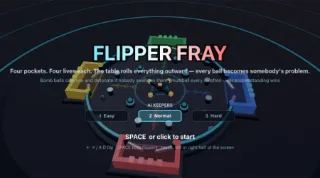
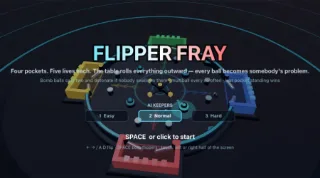
fix(docs): steepen the Flipper Fray dome so balls never crawl in the middle
The radial field was 30 px/s² everywhere. That is fine for a ball already
moving outward, but one that arrives at the centre with inward speed needs
2v/a to turn around — eight seconds at 120 px/s — so it appeared to stop dead
in the middle and refuse to roll out. A stall probe (speed < 45 px/s inside
r < 110 held for 0.75 s, logging what the ball touches) found eleven such
crawls in a two-minute match, every one of them touching nothing, which ruled
out geometry.

The dome is now steepest at the top: 170 px/s² at the centre falling linearly
to 71 at the rim, so the middle clears itself while the rim stays playable —
over half the time a ball is still under 200 px/s. The rim funnel scales with
it (16 → 80 px/s²), without which the stronger push simply pins a ball against
the wall harder. Lives go back to five to keep the match near two minutes.

Measured over 12 all-AI matches: approaches 631/622/593/606, drains
55/54/50/52, save rates within 0.3 points, ~108 s per match, no timeouts, no
stuck balls, two slow events per match and both just past a bumper.

diff --git a/docs/zh/examples/flipper-fray/index.html b/docs/zh/examples/flipper-fray/index.html
@@ -5,7 +5,7 @@
   <meta name="nape-prerendered" content="zh" />
   <meta name="viewport" content="width=device-width, initial-scale=1.0" />
   <title>Flipper Fray — 交互式 2D 物理演示 | nape-js</title>
-  <meta name="description" content="一场四人弹珠台混战：一张圆桌、四个球袋，每个球袋由一对挡板守护。台面是一个穹顶：一切都从中心向外滚，因此每颗球最终都会成为某个人的麻烦；弹碰器、弹射器和赛道立柱把弹珠抛来抛去，每一颗越过你挡板的球都要你付出一条命——四条命，坚持到最后的球袋获胜，三分钟到时则比剩余命数。你守住底部球袋，对抗三名 AI…" />
+  <meta name="description" content="一场四人弹珠台混战：一张圆桌、四个球袋，每个球袋由一对挡板守护。台面是一个穹顶：一切都从中心向外滚，因此每颗球最终都会成为某个人的麻烦；弹碰器、弹射器和赛道立柱把弹珠抛来抛去，每一颗越过你挡板的球都要你付出一条命——五条命，坚持到最后的球袋获胜，三分钟到时则比剩余命数。你守住底部球袋，对抗三名 AI…" />
   <meta name="robots" content="index, follow, max-snippet:-1, max-image-preview:large" />
   <meta name="theme-color" content="#0d1117" />
   <meta name="generator" content="nape-js build-site-pages" />
@@ -52,7 +52,7 @@
         "name": "Flipper Fray",
         "inLanguage": "zh",
         "image": "https://napejs.org/assets/posters/flipper-fray.webp",
-        "description": "一场四人弹珠台混战：一张圆桌、四个球袋，每个球袋由一对挡板守护。台面是一个穹顶：一切都从中心向外滚，因此每颗球最终都会成为某个人的麻烦；弹碰器、弹射器和赛道立柱把弹珠抛来抛去，每一颗越过你挡板的球都要你付出一条命——四条命，坚持到最后的球袋获胜，三分钟到时则比剩余命数。你守住底部球袋，对抗三名 AI 守门员；多球按时间表投放额外弹珠，每半分钟还会滚出一颗炸弹球：掉进袋里扣两条命，没人吞下它就会爆炸。← → / A D 拨动挡板，空格同时拨动两侧；触屏按住屏幕左半或右半。物理：挡板是用 setVelocityFromTarget…",
+        "description": "一场四人弹珠台混战：一张圆桌、四个球袋，每个球袋由一对挡板守护。台面是一个穹顶：一切都从中心向外滚，因此每颗球最终都会成为某个人的麻烦；弹碰器、弹射器和赛道立柱把弹珠抛来抛去，每一颗越过你挡板的球都要你付出一条命——五条命，坚持到最后的球袋获胜，三分钟到时则比剩余命数。你守住底部球袋，对抗三名 AI 守门员；多球按时间表投放额外弹珠，每半分钟还会滚出一颗炸弹球：掉进袋里扣两条命，没人吞下它就会爆炸。← → / A D 拨动挡板，空格同时拨动两侧；触屏按住屏幕左半或右半。物理：挡板是用 setVelocityFromTarget…",
         "url": "https://napejs.org/zh/examples/flipper-fray/",
         "gamePlatform": "Web browser",
         "applicationCategory": "Game",
@@ -83,7 +83,7 @@
   <meta property="og:site_name" content="nape-js" />
   <meta property="og:type" content="website" />
   <meta property="og:title" content="Flipper Fray — 交互式 2D 物理演示 | nape-js" />
-  <meta property="og:description" content="一场四人弹珠台混战：一张圆桌、四个球袋，每个球袋由一对挡板守护。台面是一个穹顶：一切都从中心向外滚，因此每颗球最终都会成为某个人的麻烦；弹碰器、弹射器和赛道立柱把弹珠抛来抛去，每一颗越过你挡板的球都要你付出一条命——四条命，坚持到最后的球袋获胜，三分钟到时则比剩余命数。你守住底部球袋，对抗三名 AI…" />
+  <meta property="og:description" content="一场四人弹珠台混战：一张圆桌、四个球袋，每个球袋由一对挡板守护。台面是一个穹顶：一切都从中心向外滚，因此每颗球最终都会成为某个人的麻烦；弹碰器、弹射器和赛道立柱把弹珠抛来抛去，每一颗越过你挡板的球都要你付出一条命——五条命，坚持到最后的球袋获胜，三分钟到时则比剩余命数。你守住底部球袋，对抗三名 AI…" />
   <meta property="og:url" content="https://napejs.org/zh/examples/flipper-fray/" />
   <meta property="og:image" content="https://napejs.org/assets/posters/flipper-fray.webp" />
   <meta property="og:image:width" content="900" />
@@ -93,7 +93,7 @@
   <meta name="twitter:card" content="summary_large_image" />
   <meta name="twitter:creator" content="@KSomoracz" />
   <meta name="twitter:title" content="Flipper Fray — 交互式 2D 物理演示 | nape-js" />
-  <meta name="twitter:description" content="一场四人弹珠台混战：一张圆桌、四个球袋，每个球袋由一对挡板守护。台面是一个穹顶：一切都从中心向外滚，因此每颗球最终都会成为某个人的麻烦；弹碰器、弹射器和赛道立柱把弹珠抛来抛去，每一颗越过你挡板的球都要你付出一条命——四条命，坚持到最后的球袋获胜，三分钟到时则比剩余命数。你守住底部球袋，对抗三名 AI…" />
+  <meta name="twitter:description" content="一场四人弹珠台混战：一张圆桌、四个球袋，每个球袋由一对挡板守护。台面是一个穹顶：一切都从中心向外滚，因此每颗球最终都会成为某个人的麻烦；弹碰器、弹射器和赛道立柱把弹珠抛来抛去，每一颗越过你挡板的球都要你付出一条命——五条命，坚持到最后的球袋获胜，三分钟到时则比剩余命数。你守住底部球袋，对抗三名 AI…" />
   <meta name="twitter:image" content="https://napejs.org/assets/posters/flipper-fray.webp" />
   <script async src="https://www.googletagmanager.com/gtag/js?id=G-TF84DLZ4X8"></script>
   <script>
@@ -172,7 +172,7 @@
         <span aria-current="page" data-i18n="demo.flipper-fray.label">Flipper Fray</span>
       </nav>
       <h1 class="demo-page-title"><span class="tier-badge tier-badge-showpiece" data-i18n="games.tier.showpiece">完整游戏</span><span data-i18n="demo.flipper-fray.label">Flipper Fray</span></h1>
-      <p class="demo-page-desc" data-i18n-html="demo.flipper-fray.desc">一场<b>四人弹珠台混战</b>：一张圆桌、四个球袋，每个球袋由一对挡板守护。台面是一个<b>穹顶</b>：一切都从中心向外滚，因此每颗球最终都会成为某个人的麻烦；弹碰器、弹射器和赛道立柱把弹珠抛来抛去，每一颗越过你挡板的球都要你付出一条命——<b>四条命</b>，坚持到最后的球袋获胜，三分钟到时则比剩余命数。你守住底部球袋，对抗<b>三名 AI 守门员</b>；<b>多球</b>按时间表投放额外弹珠，每半分钟还会滚出一颗<b>炸弹球</b>：掉进袋里扣两条命，没人吞下它就会爆炸。<b>← →</b> / <b>A D</b> 拨动挡板，<b>空格</b>同时拨动两侧；触屏按住屏幕左半或右半。物理：挡板是用 <code>setVelocityFromTarget</code> 驱动的<b>运动学刚体</b>，因此一击会把真实的角速度传给弹珠；弹珠是带<b>子弹标记</b>的圆形，不会穿过纤薄的环形墙；弹碰器和弹射器的冲击以及进球判定都经由 <code>InteractionListener</code> 送达。<b>3D</b> 模式是一座霓虹竞技场：镀铬弹珠、发光球袋和赛道灯光，从你自己的球袋后方观看。</p>
+      <p class="demo-page-desc" data-i18n-html="demo.flipper-fray.desc">一场<b>四人弹珠台混战</b>：一张圆桌、四个球袋，每个球袋由一对挡板守护。台面是一个<b>穹顶</b>：一切都从中心向外滚，因此每颗球最终都会成为某个人的麻烦；弹碰器、弹射器和赛道立柱把弹珠抛来抛去，每一颗越过你挡板的球都要你付出一条命——<b>五条命</b>，坚持到最后的球袋获胜，三分钟到时则比剩余命数。你守住底部球袋，对抗<b>三名 AI 守门员</b>；<b>多球</b>按时间表投放额外弹珠，每半分钟还会滚出一颗<b>炸弹球</b>：掉进袋里扣两条命，没人吞下它就会爆炸。<b>← →</b> / <b>A D</b> 拨动挡板，<b>空格</b>同时拨动两侧；触屏按住屏幕左半或右半。物理：挡板是用 <code>setVelocityFromTarget</code> 驱动的<b>运动学刚体</b>，因此一击会把真实的角速度传给弹珠；弹珠是带<b>子弹标记</b>的圆形，不会穿过纤薄的环形墙；弹碰器和弹射器的冲击以及进球判定都经由 <code>InteractionListener</code> 送达。<b>3D</b> 模式是一座霓虹竞技场：镀铬弹珠、发光球袋和赛道灯光，从你自己的球袋后方观看。</p>
 
       <div class="canvas-wrap" id="canvasWrap">
         <canvas id="demoCanvas" width="900" height="500"></canvas>

diff --git a/docs/demos/flipper-fray.js b/docs/demos/flipper-fray.js
@@ -65,13 +65,16 @@ const FLIP_HOLD_AI = 7;         // frames an AI holds a flipper up
 const BALL_R = 5.5;
 const BOMB_R = 7.5;
 const MAX_SPEED = 740;
-// The table is a shallow dome: the ball is pushed straight out from the
-// centre, the same everywhere, which is fair now that all four mouths are the
-// same distance away. Near the rim a gentle sideways nudge steers it toward
-// the nearest mouth, so a ball can never park itself against the wall between
-// two pockets — the one place a constant outward push would leave it.
-const OUT_ACC = 30;             // px/s² outward from the centre
-const FUNNEL_ACC = 16;          // px/s² sideways at the rim, toward the nearest mouth
+// The table is a dome, steepest at the top: the ball is pushed straight out
+// from the centre, hardest in the middle and easing off toward the rim. A
+// weak constant field left balls crawling for seconds around the centre
+// whenever they arrived with inward speed — the turnaround alone took eight
+// of them — while a strong constant one fired everything at the flippers.
+// Near the rim a sideways nudge steers the ball toward the nearest mouth, so
+// it can never park itself against the wall between two pockets.
+const OUT_ACC = 170;            // px/s² outward at the centre
+const OUT_FALLOFF = 0.58;       // fraction of that lost by the rim
+const FUNNEL_ACC = 80;          // px/s² sideways at the rim, toward the nearest mouth
 const DAMP = 0.26;              // linear damping, 1/s
 const BUMP_KICK = 185;
 const SLING_KICK = 155;
@@ -81,7 +84,7 @@ const CROSS_ARM = 42;
 const CROSS_SPIN = 0.85;        // rad/s
 
 // ── Match ────────────────────────────────────────────────────────────────
-const START_LIVES = 4;
+const START_LIVES = 5;
 const MATCH_FRAMES = 180 * 60;
 const RESPAWN_DELAY = 70;
 const BOMB_FUSE = 9 * 60;
@@ -465,9 +468,11 @@ function tickBalls() {
     const gx = p.x - CX, gy = p.y - CY;
     const gl = Math.hypot(gx, gy) || 1;
     const ux = gx / gl, uy = gy / gl;
-    vx += ux * OUT_ACC * DT;
-    vy += uy * OUT_ACC * DT;
-    const k = Math.min(1, (gl / R_WALL) ** 2);
+    const t = Math.min(1, gl / R_WALL);
+    const acc = OUT_ACC * (1 - OUT_FALLOFF * t);
+    vx += ux * acc * DT;
+    vy += uy * acc * DT;
+    const k = Math.min(1, t * t);
     if (k > 0.05) {
       const ang = Math.atan2(gy, gx);
       let best = 0;
@@ -1139,7 +1144,7 @@ function drawTitle(ctx) {
   ctx.fillText("FLIPPER FRAY", CX, 150);
   ctx.font = `bold 16px ${HUD_FONT}`;
   ctx.fillStyle = "#c9d6e2";
-  ctx.fillText("Four pockets. Four lives each. The table rolls everything outward — every ball becomes somebody's problem.", CX, 200);
+  ctx.fillText("Four pockets. Five lives each. The table rolls everything outward — every ball becomes somebody's problem.", CX, 200);
   ctx.fillStyle = "#8fb8c8";
   ctx.font = `13px ${HUD_FONT}`;
   ctx.fillText("Bomb balls cost two and detonate if nobody swallows them · multiball every so often · last pocket standing wins", CX, 226);
@@ -1887,7 +1892,7 @@ export default {
   label: "Flipper Fray",
   tags: ["Gameplay", "Pinball", "AI", "Kinematic", "CCD", "Listeners", "Mobile"],
   desc:
-    "A <b>four-player pinball brawl</b>: one round table, four pockets, a pair of flippers guarding each. The playfield is a <b>dome</b>: everything rolls outward from the centre, so every ball becomes somebody's problem; bumpers, slingshots and lane posts throw the balls around, and every ball that gets past your flippers costs you a life — <b>four lives</b>, last pocket standing wins, or the most lives when three minutes run out. You hold the bottom pocket against <b>three AI keepers</b>; <b>multiball</b> drops extra balls on a schedule and a <b>bomb ball</b> rolls out every half minute — two lives if it drains, a blast if nobody swallows it. <b>← →</b> / <b>A D</b> flip, <b>SPACE</b> both; on touch, hold the left or right half of the screen. Physics: the flippers are <b>kinematic bodies</b> driven with <code>setVelocityFromTarget</code>, so a slap carries real angular speed into the ball; balls are <b>bullet-flagged</b> circles, so nothing tunnels through the thin ring walls; bumper and slingshot kicks and goal credit come through <code>InteractionListener</code>s. In <b>3D</b> a neon arena with chrome balls, glowing pockets and lane lights, seen from behind your own pocket.",
+    "A <b>four-player pinball brawl</b>: one round table, four pockets, a pair of flippers guarding each. The playfield is a <b>dome</b>: everything rolls outward from the centre, so every ball becomes somebody's problem; bumpers, slingshots and lane posts throw the balls around, and every ball that gets past your flippers costs you a life — <b>five lives</b>, last pocket standing wins, or the most lives when three minutes run out. You hold the bottom pocket against <b>three AI keepers</b>; <b>multiball</b> drops extra balls on a schedule and a <b>bomb ball</b> rolls out every half minute — two lives if it drains, a blast if nobody swallows it. <b>← →</b> / <b>A D</b> flip, <b>SPACE</b> both; on touch, hold the left or right half of the screen. Physics: the flippers are <b>kinematic bodies</b> driven with <code>setVelocityFromTarget</code>, so a slap carries real angular speed into the ball; balls are <b>bullet-flagged</b> circles, so nothing tunnels through the thin ring walls; bumper and slingshot kicks and goal credit come through <code>InteractionListener</code>s. In <b>3D</b> a neon arena with chrome balls, glowing pockets and lane lights, seen from behind your own pocket.",
   walls: false,
   workerCompatible: false,
   camera: null,

diff --git a/docs/fr/games/index.html b/docs/fr/games/index.html
@@ -274,7 +274,7 @@
           </a>
           <div class="game-card-body">
             <h3><span class="tier-badge tier-badge-showpiece" data-i18n="games.tier.showpiece">Jeu complet</span><a href="../../fr/examples/flipper-fray/?mode=3d&outline=0" data-i18n="demo.flipper-fray.label">Flipper Fray</a></h3>
-            <p class="game-card-desc" data-i18n-html="demo.flipper-fray.desc">Une <b>bagarre de flipper à quatre joueurs</b> : une table ronde, quatre poches, chacune gardée par une paire de flippers. Le plateau est un <b>dôme</b> : tout roule du centre vers l'extérieur, donc chaque bille finit par être le problème de quelqu'un ; bumpers, slingshots et plots de couloir projettent les billes partout, et chaque bille qui passe vos flippers vous coûte une vie — <b>quatre vies</b>, la dernière poche debout gagne, ou celle qui a le plus de vies au bout de trois minutes. Vous tenez la poche du bas contre <b>trois gardiens IA</b> ; le <b>multibille</b> lâche des billes supplémentaires selon un calendrier et toutes les trente secondes une <b>bille-bombe</b> sort : deux vies si elle tombe, une explosion si personne ne l'avale. <b>← →</b> / <b>A D</b> pour les flippers, <b>ESPACE</b> pour les deux ; en tactile, maintenez la moitié gauche ou droite de l'écran. Physique : les flippers sont des <b>corps cinématiques</b> pilotés par <code>setVelocityFromTarget</code>, si bien qu'un coup transmet une vraie vitesse angulaire à la bille ; les billes sont des cercles <b>marqués bullet</b>, donc rien ne traverse les fines parois de l'anneau ; les impulsions des bumpers et des slingshots et l'attribution des buts passent par des <code>InteractionListener</code>. En <b>3D</b>, une arène néon avec des billes chromées, des poches lumineuses et des lignes de couloir, vue de derrière votre propre poche.</p>
+            <p class="game-card-desc" data-i18n-html="demo.flipper-fray.desc">Une <b>bagarre de flipper à quatre joueurs</b> : une table ronde, quatre poches, chacune gardée par une paire de flippers. Le plateau est un <b>dôme</b> : tout roule du centre vers l'extérieur, donc chaque bille finit par être le problème de quelqu'un ; bumpers, slingshots et plots de couloir projettent les billes partout, et chaque bille qui passe vos flippers vous coûte une vie — <b>cinq vies</b>, la dernière poche debout gagne, ou celle qui a le plus de vies au bout de trois minutes. Vous tenez la poche du bas contre <b>trois gardiens IA</b> ; le <b>multibille</b> lâche des billes supplémentaires selon un calendrier et toutes les trente secondes une <b>bille-bombe</b> sort : deux vies si elle tombe, une explosion si personne ne l'avale. <b>← →</b> / <b>A D</b> pour les flippers, <b>ESPACE</b> pour les deux ; en tactile, maintenez la moitié gauche ou droite de l'écran. Physique : les flippers sont des <b>corps cinématiques</b> pilotés par <code>setVelocityFromTarget</code>, si bien qu'un coup transmet une vraie vitesse angulaire à la bille ; les billes sont des cercles <b>marqués bullet</b>, donc rien ne traverse les fines parois de l'anneau ; les impulsions des bumpers et des slingshots et l'attribution des buts passent par des <code>InteractionListener</code>. En <b>3D</b>, une arène néon avec des billes chromées, des poches lumineuses et des lignes de couloir, vue de derrière votre propre poche.</p>
             <div class="game-card-tags"><span class="example-tag" data-i18n="tag.Gameplay">Gameplay</span><span class="example-tag" data-i18n="tag.Pinball">Pinball</span><span class="example-tag" data-i18n="tag.AI">IA</span><span class="example-tag" data-i18n="tag.Kinematic">Kinematic</span><span class="example-tag" data-i18n="tag.CCD">CCD</span><span class="example-tag" data-i18n="tag.Listeners">Listeners</span><span class="example-tag" data-i18n="tag.Mobile">Mobile</span></div>
           </div>
         </article>

diff --git a/docs/fr/index.html b/docs/fr/index.html
@@ -419,7 +419,7 @@
           </a>
           <div class="game-card-body">
             <h3><span class="tier-badge tier-badge-showpiece" data-i18n="games.tier.showpiece">Jeu complet</span><a href="../examples/flipper-fray/?mode=3d&outline=0" data-i18n="demo.flipper-fray.label">Flipper Fray</a></h3>
-            <p class="game-card-desc" data-i18n-html="demo.flipper-fray.desc">Une <b>bagarre de flipper à quatre joueurs</b> : une table ronde, quatre poches, chacune gardée par une paire de flippers. Le plateau est un <b>dôme</b> : tout roule du centre vers l'extérieur, donc chaque bille finit par être le problème de quelqu'un ; bumpers, slingshots et plots de couloir projettent les billes partout, et chaque bille qui passe vos flippers vous coûte une vie — <b>quatre vies</b>, la dernière poche debout gagne, ou celle qui a le plus de vies au bout de trois minutes. Vous tenez la poche du bas contre <b>trois gardiens IA</b> ; le <b>multibille</b> lâche des billes supplémentaires selon un calendrier et toutes les trente secondes une <b>bille-bombe</b> sort : deux vies si elle tombe, une explosion si personne ne l'avale. <b>← →</b> / <b>A D</b> pour les flippers, <b>ESPACE</b> pour les deux ; en tactile, maintenez la moitié gauche ou droite de l'écran. Physique : les flippers sont des <b>corps cinématiques</b> pilotés par <code>setVelocityFromTarget</code>, si bien qu'un coup transmet une vraie vitesse angulaire à la bille ; les billes sont des cercles <b>marqués bullet</b>, donc rien ne traverse les fines parois de l'anneau ; les impulsions des bumpers et des slingshots et l'attribution des buts passent par des <code>InteractionListener</code>. En <b>3D</b>, une arène néon avec des billes chromées, des poches lumineuses et des lignes de couloir, vue de derrière votre propre poche.</p>
+            <p class="game-card-desc" data-i18n-html="demo.flipper-fray.desc">Une <b>bagarre de flipper à quatre joueurs</b> : une table ronde, quatre poches, chacune gardée par une paire de flippers. Le plateau est un <b>dôme</b> : tout roule du centre vers l'extérieur, donc chaque bille finit par être le problème de quelqu'un ; bumpers, slingshots et plots de couloir projettent les billes partout, et chaque bille qui passe vos flippers vous coûte une vie — <b>cinq vies</b>, la dernière poche debout gagne, ou celle qui a le plus de vies au bout de trois minutes. Vous tenez la poche du bas contre <b>trois gardiens IA</b> ; le <b>multibille</b> lâche des billes supplémentaires selon un calendrier et toutes les trente secondes une <b>bille-bombe</b> sort : deux vies si elle tombe, une explosion si personne ne l'avale. <b>← →</b> / <b>A D</b> pour les flippers, <b>ESPACE</b> pour les deux ; en tactile, maintenez la moitié gauche ou droite de l'écran. Physique : les flippers sont des <b>corps cinématiques</b> pilotés par <code>setVelocityFromTarget</code>, si bien qu'un coup transmet une vraie vitesse angulaire à la bille ; les billes sont des cercles <b>marqués bullet</b>, donc rien ne traverse les fines parois de l'anneau ; les impulsions des bumpers et des slingshots et l'attribution des buts passent par des <code>InteractionListener</code>. En <b>3D</b>, une arène néon avec des billes chromées, des poches lumineuses et des lignes de couloir, vue de derrière votre propre poche.</p>
             <div class="game-card-tags"><span class="example-tag" data-i18n="tag.Gameplay">Gameplay</span><span class="example-tag" data-i18n="tag.Pinball">Pinball</span><span class="example-tag" data-i18n="tag.AI">IA</span><span class="example-tag" data-i18n="tag.Kinematic">Kinematic</span><span class="example-tag" data-i18n="tag.CCD">CCD</span><span class="example-tag" data-i18n="tag.Listeners">Listeners</span><span class="example-tag" data-i18n="tag.Mobile">Mobile</span></div>
           </div>
         </article>

diff --git a/docs/es/games/index.html b/docs/es/games/index.html
@@ -274,7 +274,7 @@
           </a>
           <div class="game-card-body">
             <h3><span class="tier-badge tier-badge-showpiece" data-i18n="games.tier.showpiece">Juego completo</span><a href="../../es/examples/flipper-fray/?mode=3d&outline=0" data-i18n="demo.flipper-fray.label">Flipper Fray</a></h3>
-            <p class="game-card-desc" data-i18n-html="demo.flipper-fray.desc">Una <b>pelea de pinball para cuatro jugadores</b>: una mesa redonda, cuatro bolsillos y un par de flippers guardando cada uno. El campo es una <b>cúpula</b>: todo rueda hacia fuera desde el centro, así que cada bola acaba siendo problema de alguien; bumpers, slingshots y postes de carril lanzan las bolas de un lado a otro, y cada bola que pasa tus flippers te cuesta una vida — <b>cuatro vidas</b>, gana el último bolsillo en pie, o el que más vidas tenga cuando se acaben los tres minutos. Defiendes el bolsillo inferior contra <b>tres porteros IA</b>; el <b>multibola</b> suelta bolas extra según un calendario y cada medio minuto sale una <b>bola bomba</b>: dos vidas si entra, una explosión si nadie se la traga. <b>← →</b> / <b>A D</b> para los flippers, <b>ESPACIO</b> ambos; en táctil, mantén pulsada la mitad izquierda o derecha de la pantalla. Física: los flippers son <b>cuerpos cinemáticos</b> movidos con <code>setVelocityFromTarget</code>, así que un golpe transmite velocidad angular real a la bola; las bolas son círculos con <b>marca bullet</b>, así que nada atraviesa las finas paredes del anillo; los empujones de bumpers y slingshots y la anotación de goles llegan por <code>InteractionListener</code>. En <b>3D</b>, una arena de neón con bolas cromadas, bolsillos luminosos y luces de carril, vista desde detrás de tu propio bolsillo.</p>
+            <p class="game-card-desc" data-i18n-html="demo.flipper-fray.desc">Una <b>pelea de pinball para cuatro jugadores</b>: una mesa redonda, cuatro bolsillos y un par de flippers guardando cada uno. El campo es una <b>cúpula</b>: todo rueda hacia fuera desde el centro, así que cada bola acaba siendo problema de alguien; bumpers, slingshots y postes de carril lanzan las bolas de un lado a otro, y cada bola que pasa tus flippers te cuesta una vida — <b>cinco vidas</b>, gana el último bolsillo en pie, o el que más vidas tenga cuando se acaben los tres minutos. Defiendes el bolsillo inferior contra <b>tres porteros IA</b>; el <b>multibola</b> suelta bolas extra según un calendario y cada medio minuto sale una <b>bola bomba</b>: dos vidas si entra, una explosión si nadie se la traga. <b>← →</b> / <b>A D</b> para los flippers, <b>ESPACIO</b> ambos; en táctil, mantén pulsada la mitad izquierda o derecha de la pantalla. Física: los flippers son <b>cuerpos cinemáticos</b> movidos con <code>setVelocityFromTarget</code>, así que un golpe transmite velocidad angular real a la bola; las bolas son círculos con <b>marca bullet</b>, así que nada atraviesa las finas paredes del anillo; los empujones de bumpers y slingshots y la anotación de goles llegan por <code>InteractionListener</code>. En <b>3D</b>, una arena de neón con bolas cromadas, bolsillos luminosos y luces de carril, vista desde detrás de tu propio bolsillo.</p>
             <div class="game-card-tags"><span class="example-tag" data-i18n="tag.Gameplay">Jugabilidad</span><span class="example-tag" data-i18n="tag.Pinball">Pinball</span><span class="example-tag" data-i18n="tag.AI">IA</span><span class="example-tag" data-i18n="tag.Kinematic">Kinematic</span><span class="example-tag" data-i18n="tag.CCD">CCD</span><span class="example-tag" data-i18n="tag.Listeners">Listeners</span><span class="example-tag" data-i18n="tag.Mobile">Móvil</span></div>
           </div>
         </article>

diff --git a/docs/es/index.html b/docs/es/index.html
@@ -419,7 +419,7 @@
           </a>
           <div class="game-card-body">
             <h3><span class="tier-badge tier-badge-showpiece" data-i18n="games.tier.showpiece">Juego completo</span><a href="../examples/flipper-fray/?mode=3d&outline=0" data-i18n="demo.flipper-fray.label">Flipper Fray</a></h3>
-            <p class="game-card-desc" data-i18n-html="demo.flipper-fray.desc">Una <b>pelea de pinball para cuatro jugadores</b>: una mesa redonda, cuatro bolsillos y un par de flippers guardando cada uno. El campo es una <b>cúpula</b>: todo rueda hacia fuera desde el centro, así que cada bola acaba siendo problema de alguien; bumpers, slingshots y postes de carril lanzan las bolas de un lado a otro, y cada bola que pasa tus flippers te cuesta una vida — <b>cuatro vidas</b>, gana el último bolsillo en pie, o el que más vidas tenga cuando se acaben los tres minutos. Defiendes el bolsillo inferior contra <b>tres porteros IA</b>; el <b>multibola</b> suelta bolas extra según un calendario y cada medio minuto sale una <b>bola bomba</b>: dos vidas si entra, una explosión si nadie se la traga. <b>← →</b> / <b>A D</b> para los flippers, <b>ESPACIO</b> ambos; en táctil, mantén pulsada la mitad izquierda o derecha de la pantalla. Física: los flippers son <b>cuerpos cinemáticos</b> movidos con <code>setVelocityFromTarget</code>, así que un golpe transmite velocidad angular real a la bola; las bolas son círculos con <b>marca bullet</b>, así que nada atraviesa las finas paredes del anillo; los empujones de bumpers y slingshots y la anotación de goles llegan por <code>InteractionListener</code>. En <b>3D</b>, una arena de neón con bolas cromadas, bolsillos luminosos y luces de carril, vista desde detrás de tu propio bolsillo.</p>
+            <p class="game-card-desc" data-i18n-html="demo.flipper-fray.desc">Una <b>pelea de pinball para cuatro jugadores</b>: una mesa redonda, cuatro bolsillos y un par de flippers guardando cada uno. El campo es una <b>cúpula</b>: todo rueda hacia fuera desde el centro, así que cada bola acaba siendo problema de alguien; bumpers, slingshots y postes de carril lanzan las bolas de un lado a otro, y cada bola que pasa tus flippers te cuesta una vida — <b>cinco vidas</b>, gana el último bolsillo en pie, o el que más vidas tenga cuando se acaben los tres minutos. Defiendes el bolsillo inferior contra <b>tres porteros IA</b>; el <b>multibola</b> suelta bolas extra según un calendario y cada medio minuto sale una <b>bola bomba</b>: dos vidas si entra, una explosión si nadie se la traga. <b>← →</b> / <b>A D</b> para los flippers, <b>ESPACIO</b> ambos; en táctil, mantén pulsada la mitad izquierda o derecha de la pantalla. Física: los flippers son <b>cuerpos cinemáticos</b> movidos con <code>setVelocityFromTarget</code>, así que un golpe transmite velocidad angular real a la bola; las bolas son círculos con <b>marca bullet</b>, así que nada atraviesa las finas paredes del anillo; los empujones de bumpers y slingshots y la anotación de goles llegan por <code>InteractionListener</code>. En <b>3D</b>, una arena de neón con bolas cromadas, bolsillos luminosos y luces de carril, vista desde detrás de tu propio bolsillo.</p>
             <div class="game-card-tags"><span class="example-tag" data-i18n="tag.Gameplay">Jugabilidad</span><span class="example-tag" data-i18n="tag.Pinball">Pinball</span><span class="example-tag" data-i18n="tag.AI">IA</span><span class="example-tag" data-i18n="tag.Kinematic">Kinematic</span><span class="example-tag" data-i18n="tag.CCD">CCD</span><span class="example-tag" data-i18n="tag.Listeners">Listeners</span><span class="example-tag" data-i18n="tag.Mobile">Móvil</span></div>
           </div>
         </article>

diff --git a/docs/de/games/index.html b/docs/de/games/index.html
@@ -274,7 +274,7 @@
           </a>
           <div class="game-card-body">
             <h3><span class="tier-badge tier-badge-showpiece" data-i18n="games.tier.showpiece">Komplettes Spiel</span><a href="../../de/examples/flipper-fray/?mode=3d&outline=0" data-i18n="demo.flipper-fray.label">Flipper Fray</a></h3>
-            <p class="game-card-desc" data-i18n-html="demo.flipper-fray.desc">Eine <b>Flipper-Keilerei für vier Spieler</b>: ein runder Tisch, vier Taschen, jede von einem Flipperpaar bewacht. Das Spielfeld ist eine <b>Kuppel</b>: alles rollt von der Mitte nach außen, also wird jede Kugel irgendwessen Problem; Bumper, Slingshots und Bahnpfosten schleudern die Kugeln herum, und jede Kugel, die an deinen Flippern vorbeikommt, kostet ein Leben — <b>vier Leben</b>, die letzte verbliebene Tasche gewinnt, oder die meisten Leben nach drei Minuten. Du hältst die untere Tasche gegen <b>drei KI-Keeper</b>; <b>Multiball</b> wirft nach Plan Extrakugeln ein, und jede halbe Minute rollt eine <b>Bombenkugel</b> heraus — zwei Leben, wenn sie fällt, eine Explosion, wenn sie niemand schluckt. <b>← →</b> / <b>A D</b> flippern, <b>LEERTASTE</b> beide; auf Touch die linke oder rechte Bildschirmhälfte gedrückt halten. Physik: die Flipper sind <b>kinematische Körper</b>, angetrieben über <code>setVelocityFromTarget</code>, sodass ein Schlag echte Winkelgeschwindigkeit in die Kugel überträgt; Kugeln sind <b>Bullet-markierte</b> Kreise, damit nichts durch die dünnen Ringwände tunnelt; Bumper- und Slingshot-Stöße sowie die Torgutschrift kommen über <code>InteractionListener</code>. In <b>3D</b> eine Neon-Arena mit Chromkugeln, leuchtenden Taschen und Bahnlichtern, gesehen von hinter deiner eigenen Tasche.</p>
+            <p class="game-card-desc" data-i18n-html="demo.flipper-fray.desc">Eine <b>Flipper-Keilerei für vier Spieler</b>: ein runder Tisch, vier Taschen, jede von einem Flipperpaar bewacht. Das Spielfeld ist eine <b>Kuppel</b>: alles rollt von der Mitte nach außen, also wird jede Kugel irgendwessen Problem; Bumper, Slingshots und Bahnpfosten schleudern die Kugeln herum, und jede Kugel, die an deinen Flippern vorbeikommt, kostet ein Leben — <b>fünf Leben</b>, die letzte verbliebene Tasche gewinnt, oder die meisten Leben nach drei Minuten. Du hältst die untere Tasche gegen <b>drei KI-Keeper</b>; <b>Multiball</b> wirft nach Plan Extrakugeln ein, und jede halbe Minute rollt eine <b>Bombenkugel</b> heraus — zwei Leben, wenn sie fällt, eine Explosion, wenn sie niemand schluckt. <b>← →</b> / <b>A D</b> flippern, <b>LEERTASTE</b> beide; auf Touch die linke oder rechte Bildschirmhälfte gedrückt halten. Physik: die Flipper sind <b>kinematische Körper</b>, angetrieben über <code>setVelocityFromTarget</code>, sodass ein Schlag echte Winkelgeschwindigkeit in die Kugel überträgt; Kugeln sind <b>Bullet-markierte</b> Kreise, damit nichts durch die dünnen Ringwände tunnelt; Bumper- und Slingshot-Stöße sowie die Torgutschrift kommen über <code>InteractionListener</code>. In <b>3D</b> eine Neon-Arena mit Chromkugeln, leuchtenden Taschen und Bahnlichtern, gesehen von hinter deiner eigenen Tasche.</p>
             <div class="game-card-tags"><span class="example-tag" data-i18n="tag.Gameplay">Gameplay</span><span class="example-tag" data-i18n="tag.Pinball">Pinball</span><span class="example-tag" data-i18n="tag.AI">KI</span><span class="example-tag" data-i18n="tag.Kinematic">Kinematic</span><span class="example-tag" data-i18n="tag.CCD">CCD</span><span class="example-tag" data-i18n="tag.Listeners">Listeners</span><span class="example-tag" data-i18n="tag.Mobile">Mobil</span></div>
           </div>
         </article>

diff --git a/docs/de/index.html b/docs/de/index.html
@@ -419,7 +419,7 @@
           </a>
           <div class="game-card-body">
             <h3><span class="tier-badge tier-badge-showpiece" data-i18n="games.tier.showpiece">Komplettes Spiel</span><a href="../examples/flipper-fray/?mode=3d&outline=0" data-i18n="demo.flipper-fray.label">Flipper Fray</a></h3>
-            <p class="game-card-desc" data-i18n-html="demo.flipper-fray.desc">Eine <b>Flipper-Keilerei für vier Spieler</b>: ein runder Tisch, vier Taschen, jede von einem Flipperpaar bewacht. Das Spielfeld ist eine <b>Kuppel</b>: alles rollt von der Mitte nach außen, also wird jede Kugel irgendwessen Problem; Bumper, Slingshots und Bahnpfosten schleudern die Kugeln herum, und jede Kugel, die an deinen Flippern vorbeikommt, kostet ein Leben — <b>vier Leben</b>, die letzte verbliebene Tasche gewinnt, oder die meisten Leben nach drei Minuten. Du hältst die untere Tasche gegen <b>drei KI-Keeper</b>; <b>Multiball</b> wirft nach Plan Extrakugeln ein, und jede halbe Minute rollt eine <b>Bombenkugel</b> heraus — zwei Leben, wenn sie fällt, eine Explosion, wenn sie niemand schluckt. <b>← →</b> / <b>A D</b> flippern, <b>LEERTASTE</b> beide; auf Touch die linke oder rechte Bildschirmhälfte gedrückt halten. Physik: die Flipper sind <b>kinematische Körper</b>, angetrieben über <code>setVelocityFromTarget</code>, sodass ein Schlag echte Winkelgeschwindigkeit in die Kugel überträgt; Kugeln sind <b>Bullet-markierte</b> Kreise, damit nichts durch die dünnen Ringwände tunnelt; Bumper- und Slingshot-Stöße sowie die Torgutschrift kommen über <code>InteractionListener</code>. In <b>3D</b> eine Neon-Arena mit Chromkugeln, leuchtenden Taschen und Bahnlichtern, gesehen von hinter deiner eigenen Tasche.</p>
+            <p class="game-card-desc" data-i18n-html="demo.flipper-fray.desc">Eine <b>Flipper-Keilerei für vier Spieler</b>: ein runder Tisch, vier Taschen, jede von einem Flipperpaar bewacht. Das Spielfeld ist eine <b>Kuppel</b>: alles rollt von der Mitte nach außen, also wird jede Kugel irgendwessen Problem; Bumper, Slingshots und Bahnpfosten schleudern die Kugeln herum, und jede Kugel, die an deinen Flippern vorbeikommt, kostet ein Leben — <b>fünf Leben</b>, die letzte verbliebene Tasche gewinnt, oder die meisten Leben nach drei Minuten. Du hältst die untere Tasche gegen <b>drei KI-Keeper</b>; <b>Multiball</b> wirft nach Plan Extrakugeln ein, und jede halbe Minute rollt eine <b>Bombenkugel</b> heraus — zwei Leben, wenn sie fällt, eine Explosion, wenn sie niemand schluckt. <b>← →</b> / <b>A D</b> flippern, <b>LEERTASTE</b> beide; auf Touch die linke oder rechte Bildschirmhälfte gedrückt halten. Physik: die Flipper sind <b>kinematische Körper</b>, angetrieben über <code>setVelocityFromTarget</code>, sodass ein Schlag echte Winkelgeschwindigkeit in die Kugel überträgt; Kugeln sind <b>Bullet-markierte</b> Kreise, damit nichts durch die dünnen Ringwände tunnelt; Bumper- und Slingshot-Stöße sowie die Torgutschrift kommen über <code>InteractionListener</code>. In <b>3D</b> eine Neon-Arena mit Chromkugeln, leuchtenden Taschen und Bahnlichtern, gesehen von hinter deiner eigenen Tasche.</p>
             <div class="game-card-tags"><span class="example-tag" data-i18n="tag.Gameplay">Gameplay</span><span class="example-tag" data-i18n="tag.Pinball">Pinball</span><span class="example-tag" data-i18n="tag.AI">KI</span><span class="example-tag" data-i18n="tag.Kinematic">Kinematic</span><span class="example-tag" data-i18n="tag.CCD">CCD</span><span class="example-tag" data-i18n="tag.Listeners">Listeners</span><span class="example-tag" data-i18n="tag.Mobile">Mobil</span></div>
           </div>
         </article>

diff --git a/docs/hu/games/index.html b/docs/hu/games/index.html
@@ -274,7 +274,7 @@
           </a>
           <div class="game-card-body">
             <h3><span class="tier-badge tier-badge-showpiece" data-i18n="games.tier.showpiece">Teljes játék</span><a href="../../hu/examples/flipper-fray/?mode=3d&outline=0" data-i18n="demo.flipper-fray.label">Flipper Fray</a></h3>
-            <p class="game-card-desc" data-i18n-html="demo.flipper-fray.desc"><b>Négyszemélyes flipperbunyó</b>: egy kerek asztal, négy zseb, mindegyiket egy flipperpár őrzi. A pálya <b>domború</b>: minden a középtől kifelé gurul, így minden golyó valakinek a gondja lesz; a bumperek, a csúzlik és a sávoszlopok ide-oda dobálják a golyókat, és minden golyó, amely átjut a flippereiden, egy életedbe kerül — <b>négy élet</b>, az utolsó talpon maradt zseb nyer, vagy a legtöbb élet, ha lejár a három perc. Az alsó zsebet te véded <b>három AI-kapus</b> ellen; a <b>multiball</b> menetrend szerint plusz golyókat dob be, félpercenként pedig kigurul egy <b>bombagolyó</b> — két élet, ha beesik, robbanás, ha senki nem nyeli le. <b>← →</b> / <b>A D</b> flipperezés, <b>SPACE</b> mindkettő; érintőképernyőn tartsd nyomva a képernyő bal vagy jobb felét. Fizika: a flipperek <code>setVelocityFromTarget</code>-tel hajtott <b>kinematikus testek</b>, így az ütés valódi szögsebességet visz át a golyóba; a golyók <b>bullet-jelölt</b> körök, ezért semmi nem fúródik át a vékony gyűrűfalakon; a bumper- és csúzlilökések, valamint a gólok jóváírása <code>InteractionListener</code>-eken át érkezik. <b>3D</b>-ben neonaréna krómgolyókkal, világító zsebekkel és sávfényekkel, a saját zsebed mögül nézve.</p>
+            <p class="game-card-desc" data-i18n-html="demo.flipper-fray.desc"><b>Négyszemélyes flipperbunyó</b>: egy kerek asztal, négy zseb, mindegyiket egy flipperpár őrzi. A pálya <b>domború</b>: minden a középtől kifelé gurul, így minden golyó valakinek a gondja lesz; a bumperek, a csúzlik és a sávoszlopok ide-oda dobálják a golyókat, és minden golyó, amely átjut a flippereiden, egy életedbe kerül — <b>öt élet</b>, az utolsó talpon maradt zseb nyer, vagy a legtöbb élet, ha lejár a három perc. Az alsó zsebet te véded <b>három AI-kapus</b> ellen; a <b>multiball</b> menetrend szerint plusz golyókat dob be, félpercenként pedig kigurul egy <b>bombagolyó</b> — két élet, ha beesik, robbanás, ha senki nem nyeli le. <b>← →</b> / <b>A D</b> flipperezés, <b>SPACE</b> mindkettő; érintőképernyőn tartsd nyomva a képernyő bal vagy jobb felét. Fizika: a flipperek <code>setVelocityFromTarget</code>-tel hajtott <b>kinematikus testek</b>, így az ütés valódi szögsebességet visz át a golyóba; a golyók <b>bullet-jelölt</b> körök, ezért semmi nem fúródik át a vékony gyűrűfalakon; a bumper- és csúzlilökések, valamint a gólok jóváírása <code>InteractionListener</code>-eken át érkezik. <b>3D</b>-ben neonaréna krómgolyókkal, világító zsebekkel és sávfényekkel, a saját zsebed mögül nézve.</p>
             <div class="game-card-tags"><span class="example-tag" data-i18n="tag.Gameplay">Játékmenet</span><span class="example-tag" data-i18n="tag.Pinball">Pinball</span><span class="example-tag" data-i18n="tag.AI">MI</span><span class="example-tag" data-i18n="tag.Kinematic">Kinematic</span><span class="example-tag" data-i18n="tag.CCD">CCD</span><span class="example-tag" data-i18n="tag.Listeners">Listeners</span><span class="example-tag" data-i18n="tag.Mobile">Mobil</span></div>
           </div>
         </article>

diff --git a/docs/hu/index.html b/docs/hu/index.html
@@ -419,7 +419,7 @@
           </a>
           <div class="game-card-body">
             <h3><span class="tier-badge tier-badge-showpiece" data-i18n="games.tier.showpiece">Teljes játék</span><a href="../examples/flipper-fray/?mode=3d&outline=0" data-i18n="demo.flipper-fray.label">Flipper Fray</a></h3>
-            <p class="game-card-desc" data-i18n-html="demo.flipper-fray.desc"><b>Négyszemélyes flipperbunyó</b>: egy kerek asztal, négy zseb, mindegyiket egy flipperpár őrzi. A pálya <b>domború</b>: minden a középtől kifelé gurul, így minden golyó valakinek a gondja lesz; a bumperek, a csúzlik és a sávoszlopok ide-oda dobálják a golyókat, és minden golyó, amely átjut a flippereiden, egy életedbe kerül — <b>négy élet</b>, az utolsó talpon maradt zseb nyer, vagy a legtöbb élet, ha lejár a három perc. Az alsó zsebet te véded <b>három AI-kapus</b> ellen; a <b>multiball</b> menetrend szerint plusz golyókat dob be, félpercenként pedig kigurul egy <b>bombagolyó</b> — két élet, ha beesik, robbanás, ha senki nem nyeli le. <b>← →</b> / <b>A D</b> flipperezés, <b>SPACE</b> mindkettő; érintőképernyőn tartsd nyomva a képernyő bal vagy jobb felét. Fizika: a flipperek <code>setVelocityFromTarget</code>-tel hajtott <b>kinematikus testek</b>, így az ütés valódi szögsebességet visz át a golyóba; a golyók <b>bullet-jelölt</b> körök, ezért semmi nem fúródik át a vékony gyűrűfalakon; a bumper- és csúzlilökések, valamint a gólok jóváírása <code>InteractionListener</code>-eken át érkezik. <b>3D</b>-ben neonaréna krómgolyókkal, világító zsebekkel és sávfényekkel, a saját zsebed mögül nézve.</p>
+            <p class="game-card-desc" data-i18n-html="demo.flipper-fray.desc"><b>Négyszemélyes flipperbunyó</b>: egy kerek asztal, négy zseb, mindegyiket egy flipperpár őrzi. A pálya <b>domború</b>: minden a középtől kifelé gurul, így minden golyó valakinek a gondja lesz; a bumperek, a csúzlik és a sávoszlopok ide-oda dobálják a golyókat, és minden golyó, amely átjut a flippereiden, egy életedbe kerül — <b>öt élet</b>, az utolsó talpon maradt zseb nyer, vagy a legtöbb élet, ha lejár a három perc. Az alsó zsebet te véded <b>három AI-kapus</b> ellen; a <b>multiball</b> menetrend szerint plusz golyókat dob be, félpercenként pedig kigurul egy <b>bombagolyó</b> — két élet, ha beesik, robbanás, ha senki nem nyeli le. <b>← →</b> / <b>A D</b> flipperezés, <b>SPACE</b> mindkettő; érintőképernyőn tartsd nyomva a képernyő bal vagy jobb felét. Fizika: a flipperek <code>setVelocityFromTarget</code>-tel hajtott <b>kinematikus testek</b>, így az ütés valódi szögsebességet visz át a golyóba; a golyók <b>bullet-jelölt</b> körök, ezért semmi nem fúródik át a vékony gyűrűfalakon; a bumper- és csúzlilökések, valamint a gólok jóváírása <code>InteractionListener</code>-eken át érkezik. <b>3D</b>-ben neonaréna krómgolyókkal, világító zsebekkel és sávfényekkel, a saját zsebed mögül nézve.</p>
             <div class="game-card-tags"><span class="example-tag" data-i18n="tag.Gameplay">Játékmenet</span><span class="example-tag" data-i18n="tag.Pinball">Pinball</span><span class="example-tag" data-i18n="tag.AI">MI</span><span class="example-tag" data-i18n="tag.Kinematic">Kinematic</span><span class="example-tag" data-i18n="tag.CCD">CCD</span><span class="example-tag" data-i18n="tag.Listeners">Listeners</span><span class="example-tag" data-i18n="tag.Mobile">Mobil</span></div>
           </div>
         </article>

diff --git a/docs/fr/examples/flipper-fray/index.html b/docs/fr/examples/flipper-fray/index.html
@@ -172,7 +172,7 @@
         <span aria-current="page" data-i18n="demo.flipper-fray.label">Flipper Fray</span>
       </nav>
       <h1 class="demo-page-title"><span class="tier-badge tier-badge-showpiece" data-i18n="games.tier.showpiece">Jeu complet</span><span data-i18n="demo.flipper-fray.label">Flipper Fray</span></h1>
-      <p class="demo-page-desc" data-i18n-html="demo.flipper-fray.desc">Une <b>bagarre de flipper à quatre joueurs</b> : une table ronde, quatre poches, chacune gardée par une paire de flippers. Le plateau est un <b>dôme</b> : tout roule du centre vers l'extérieur, donc chaque bille finit par être le problème de quelqu'un ; bumpers, slingshots et plots de couloir projettent les billes partout, et chaque bille qui passe vos flippers vous coûte une vie — <b>quatre vies</b>, la dernière poche debout gagne, ou celle qui a le plus de vies au bout de trois minutes. Vous tenez la poche du bas contre <b>trois gardiens IA</b> ; le <b>multibille</b> lâche des billes supplémentaires selon un calendrier et toutes les trente secondes une <b>bille-bombe</b> sort : deux vies si elle tombe, une explosion si personne ne l'avale. <b>← →</b> / <b>A D</b> pour les flippers, <b>ESPACE</b> pour les deux ; en tactile, maintenez la moitié gauche ou droite de l'écran. Physique : les flippers sont des <b>corps cinématiques</b> pilotés par <code>setVelocityFromTarget</code>, si bien qu'un coup transmet une vraie vitesse angulaire à la bille ; les billes sont des cercles <b>marqués bullet</b>, donc rien ne traverse les fines parois de l'anneau ; les impulsions des bumpers et des slingshots et l'attribution des buts passent par des <code>InteractionListener</code>. En <b>3D</b>, une arène néon avec des billes chromées, des poches lumineuses et des lignes de couloir, vue de derrière votre propre poche.</p>
+      <p class="demo-page-desc" data-i18n-html="demo.flipper-fray.desc">Une <b>bagarre de flipper à quatre joueurs</b> : une table ronde, quatre poches, chacune gardée par une paire de flippers. Le plateau est un <b>dôme</b> : tout roule du centre vers l'extérieur, donc chaque bille finit par être le problème de quelqu'un ; bumpers, slingshots et plots de couloir projettent les billes partout, et chaque bille qui passe vos flippers vous coûte une vie — <b>cinq vies</b>, la dernière poche debout gagne, ou celle qui a le plus de vies au bout de trois minutes. Vous tenez la poche du bas contre <b>trois gardiens IA</b> ; le <b>multibille</b> lâche des billes supplémentaires selon un calendrier et toutes les trente secondes une <b>bille-bombe</b> sort : deux vies si elle tombe, une explosion si personne ne l'avale. <b>← →</b> / <b>A D</b> pour les flippers, <b>ESPACE</b> pour les deux ; en tactile, maintenez la moitié gauche ou droite de l'écran. Physique : les flippers sont des <b>corps cinématiques</b> pilotés par <code>setVelocityFromTarget</code>, si bien qu'un coup transmet une vraie vitesse angulaire à la bille ; les billes sont des cercles <b>marqués bullet</b>, donc rien ne traverse les fines parois de l'anneau ; les impulsions des bumpers et des slingshots et l'attribution des buts passent par des <code>InteractionListener</code>. En <b>3D</b>, une arène néon avec des billes chromées, des poches lumineuses et des lignes de couloir, vue de derrière votre propre poche.</p>
 
       <div class="canvas-wrap" id="canvasWrap">
         <canvas id="demoCanvas" width="900" height="500"></canvas>

diff --git a/docs/games/index.html b/docs/games/index.html
@@ -273,7 +273,7 @@
           </a>
           <div class="game-card-body">
             <h3><span class="tier-badge tier-badge-showpiece" data-i18n="games.tier.showpiece">Complete game</span><a href="../examples/flipper-fray/?mode=3d&outline=0" data-i18n="demo.flipper-fray.label">Flipper Fray</a></h3>
-            <p class="game-card-desc" data-i18n-html="demo.flipper-fray.desc">A <b>four-player pinball brawl</b>: one round table, four pockets, a pair of flippers guarding each. The playfield is a <b>dome</b>: everything rolls outward from the centre, so every ball becomes somebody's problem; bumpers, slingshots and lane posts throw the balls around, and every ball that gets past your flippers costs you a life — <b>four lives</b>, last pocket standing wins, or the most lives when three minutes run out. You hold the bottom pocket against <b>three AI keepers</b>; <b>multiball</b> drops extra balls on a schedule and a <b>bomb ball</b> rolls out every half minute — two lives if it drains, a blast if nobody swallows it. <b>← →</b> / <b>A D</b> flip, <b>SPACE</b> both; on touch, hold the left or right half of the screen. Physics: the flippers are <b>kinematic bodies</b> driven with <code>setVelocityFromTarget</code>, so a slap carries real angular speed into the ball; balls are <b>bullet-flagged</b> circles, so nothing tunnels through the thin ring walls; bumper and slingshot kicks and goal credit come through <code>InteractionListener</code>s. In <b>3D</b> a neon arena with chrome balls, glowing pockets and lane lights, seen from behind your own pocket.</p>
+            <p class="game-card-desc" data-i18n-html="demo.flipper-fray.desc">A <b>four-player pinball brawl</b>: one round table, four pockets, a pair of flippers guarding each. The playfield is a <b>dome</b>: everything rolls outward from the centre, so every ball becomes somebody's problem; bumpers, slingshots and lane posts throw the balls around, and every ball that gets past your flippers costs you a life — <b>five lives</b>, last pocket standing wins, or the most lives when three minutes run out. You hold the bottom pocket against <b>three AI keepers</b>; <b>multiball</b> drops extra balls on a schedule and a <b>bomb ball</b> rolls out every half minute — two lives if it drains, a blast if nobody swallows it. <b>← →</b> / <b>A D</b> flip, <b>SPACE</b> both; on touch, hold the left or right half of the screen. Physics: the flippers are <b>kinematic bodies</b> driven with <code>setVelocityFromTarget</code>, so a slap carries real angular speed into the ball; balls are <b>bullet-flagged</b> circles, so nothing tunnels through the thin ring walls; bumper and slingshot kicks and goal credit come through <code>InteractionListener</code>s. In <b>3D</b> a neon arena with chrome balls, glowing pockets and lane lights, seen from behind your own pocket.</p>
             <div class="game-card-tags"><span class="example-tag" data-i18n="tag.Gameplay">Gameplay</span><span class="example-tag" data-i18n="tag.Pinball">Pinball</span><span class="example-tag" data-i18n="tag.AI">AI</span><span class="example-tag" data-i18n="tag.Kinematic">Kinematic</span><span class="example-tag" data-i18n="tag.CCD">CCD</span><span class="example-tag" data-i18n="tag.Listeners">Listeners</span><span class="example-tag" data-i18n="tag.Mobile">Mobile</span></div>
           </div>
         </article>
